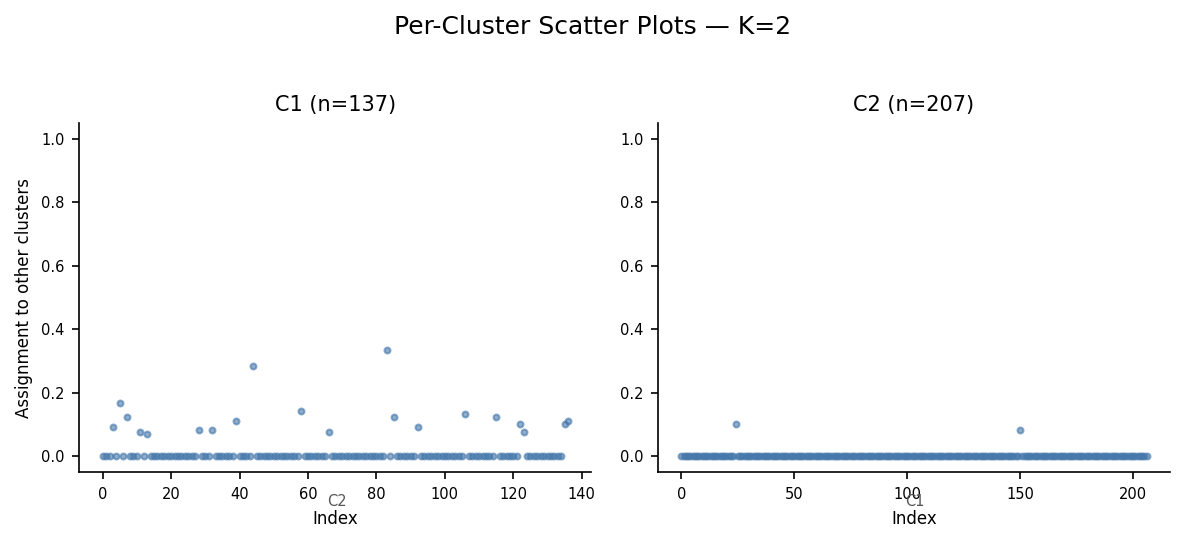
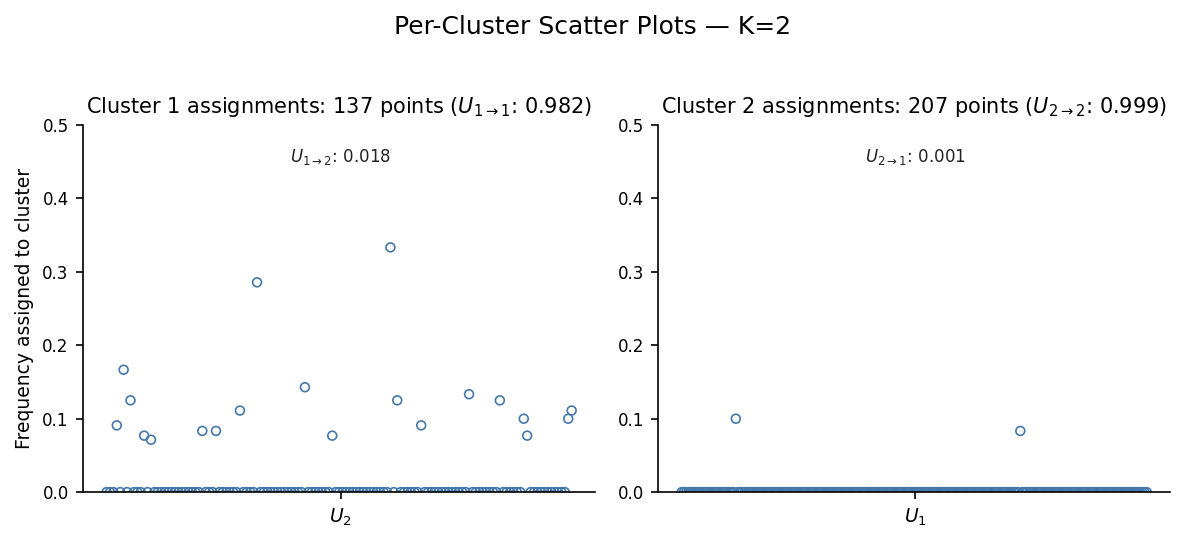
feat: PCSP MATLAB-style annotations (0.2.3)
Rework plot_pcsp output to match the original MATLAB recapitulation
the team has been using. Behavioural-only change — same API.

Changes per panel:
- Title now reads:
    "Cluster N assignments: M points (U_{N->N}: 0.xxx)"
  i.e. source cluster, sample count, and self-assignment value
  (mean normalised assignment of cluster-N samples to cluster N).
- Per-target group annotation:
    "U_{N->M}: 0.xxx"
  placed near the top of each x-section, showing the mean
  normalised assignment from source cluster N to target cluster M.
- X-tick labels switched from "C2 / C3 / C4" to math subscripts
  $U_2$ / $U_3$ / $U_4$, placed at the centre of each target section.
- Y-axis label: "Frequency assigned to cluster".
- Markers: open circles (facecolors='none', s=18) instead of small
  filled scatter, so densities at low values stay readable.
- Vertical separator dashes between target groups remain, recoloured
  to a soft red (#C44) to match the MATLAB reference figure.
- Y-limit auto-scales to the data with a 0.5 floor so the typical
  off-diagonal range stays visually consistent across panels.

end_to_end_demo.ipynb re-executed so the inline 07_pcsp panel
reflects the new style.

Bumps 0.2.2 -> 0.2.3.

diff --git a/erica/plotting_mpl.py b/erica/plotting_mpl.py
@@ -520,50 +520,75 @@ def plot_pcsp(
     for src_k in range(k):
         ax = axes_flat[src_k]
         mask = primary == src_k
+        n_src = int(mask.sum())
         if not mask.any():
-            ax.set_title(f"C{src_k+1} (empty)", fontsize=10)
+            ax.set_title(f"Cluster {src_k + 1} assignments: 0 points",
+                         fontsize=10)
             ax.set_ylim(-0.05, 1.05)
             continue
 
+        u_self = float(clam_norm[mask, src_k].mean())
+
         segments: List[np.ndarray] = []
         boundaries = [0]
-        target_labels: List[str] = []
+        target_idx: List[int] = []
+        target_means: List[float] = []
         for tgt_k in range(k):
             if tgt_k == src_k:
                 continue
             vals = clam_norm[mask, tgt_k]
             segments.append(vals)
             boundaries.append(boundaries[-1] + len(vals))
-            target_labels.append(f"C{tgt_k+1}")
+            target_idx.append(tgt_k)
+            target_means.append(float(vals.mean()))
 
         if not segments:
-            ax.set_title(f"C{src_k+1} (n={int(mask.sum())})", fontsize=10)
+            ax.set_title(
+                f"Cluster {src_k + 1} assignments: {n_src} points "
+                f"($U_{{{src_k + 1}\\to{src_k + 1}}}$: {u_self:.3f})",
+                fontsize=10,
+            )
             ax.set_ylim(-0.05, 1.05)
             continue
 
         all_vals = np.concatenate(segments)
         x = np.arange(len(all_vals))
-        ax.scatter(x, all_vals, s=8, alpha=0.6, c="#4477AA")
+        ax.scatter(
+            x, all_vals,
+            s=18, facecolors="none", edgecolors="#4477AA", linewidths=0.8,
+        )
 
         for b in boundaries[1:-1]:
-            ax.axvline(b, linestyle=":", color="#888", linewidth=0.8)
+            ax.axvline(b, linestyle=":", color="#C44", linewidth=0.8)
 
         mid_points = [
             (boundaries[i] + boundaries[i + 1]) / 2
-            for i in range(len(target_labels))
+            for i in range(len(target_idx))
         ]
-        for mid, label in zip(mid_points, target_labels):
+        ymax = max(0.5, float(all_vals.max()) * 1.05)
+        ax.set_ylim(0, ymax)
+
+        for mid, tgt_k, mean_val in zip(mid_points, target_idx, target_means):
             ax.text(
-                mid, -0.12, label,
-                ha="center", va="top", fontsize=7, color="#555",
+                mid, ymax * 0.94,
+                f"$U_{{{src_k + 1}\\to{tgt_k + 1}}}$: {mean_val:.3f}",
+                ha="center", va="top", fontsize=8, color="#222",
             )
 
-        ax.set_title(f"C{src_k+1} (n={int(mask.sum())})", fontsize=10)
-        ax.set_xlabel("Index", fontsize=8)
+        ax.set_xticks(mid_points)
+        ax.set_xticklabels(
+            [f"$U_{{{tgt_k + 1}}}$" for tgt_k in target_idx], fontsize=9,
+        )
+        ax.set_title(
+            f"Cluster {src_k + 1} assignments: {n_src} points "
+            f"($U_{{{src_k + 1}\\to{src_k + 1}}}$: {u_self:.3f})",
+            fontsize=10,
+        )
         if src_k % ncols == 0:
-            ax.set_ylabel("Assignment to other clusters", fontsize=8)
-        ax.set_ylim(-0.05, 1.05)
-        ax.tick_params(labelsize=7)
+            ax.set_ylabel("Frequency assigned to cluster", fontsize=9)
+        ax.tick_params(axis="y", labelsize=8)
+        ax.spines["top"].set_visible(False)
+        ax.spines["right"].set_visible(False)
 
     if title is None:
         title = f"Per-Cluster Scatter Plots (K={k})"

diff --git a/erica/__init__.py b/erica/__init__.py
@@ -34,7 +34,7 @@ Advanced Usage:
     >>> metrics = compute_cri(results['clam_matrix'])
 """
 
-__version__ = "0.2.2"
+__version__ = "0.2.3"
 __author__ = "Siamak Sorooshyari, Shawn Shirazi"
 __license__ = "MIT"
 

diff --git a/setup.py b/setup.py
@@ -10,7 +10,7 @@ with open(os.path.join(this_directory, 'README.md'), encoding='utf-8') as f:
 
 setup(
     name='erica',
-    version='0.2.2',
+    version='0.2.3',
     author='Siamak Sorooshyari, Shawn Shirazi',
     author_email='[email redacted]',
     description='ERICA - A robust clustering replicability analysis tool using iterative clustering assignments',